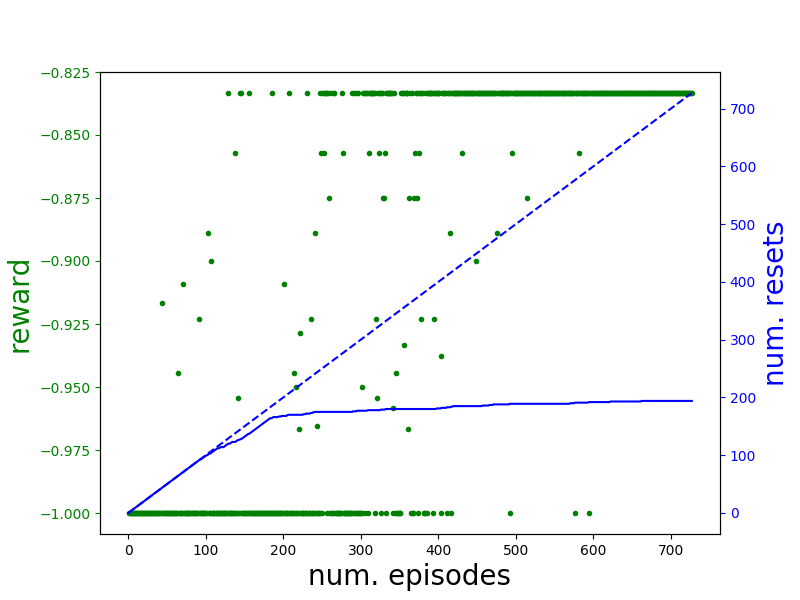
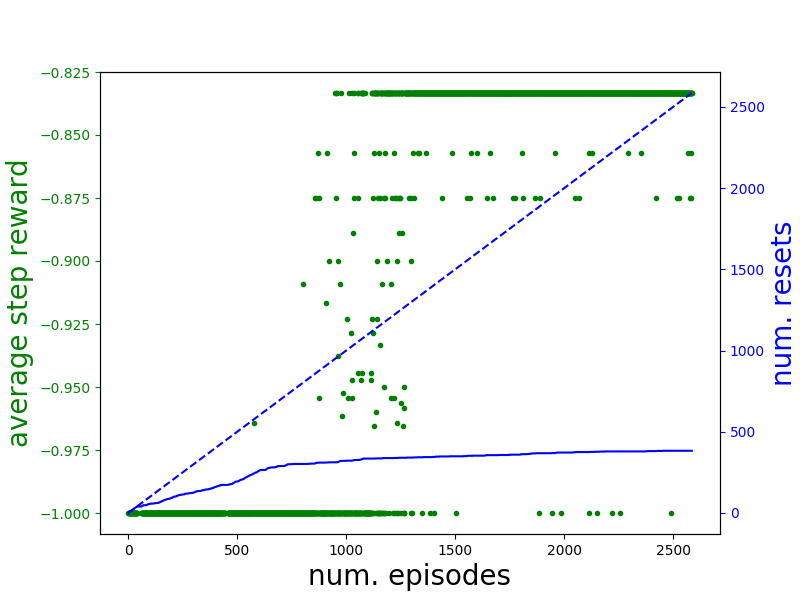
minor fixes

diff --git a/env_util.py b/env_util.py
@@ -28,7 +28,7 @@ def get_env(env_name, safety_param=0):
         if env_name == 'small-gridworld':
             map_name = '4x4'
             max_episode_steps = 30
-            num_training_iterations = 6000
+            num_training_iterations = 20000
         else:
             map_name = '8x8'
             max_episode_steps = 100

diff --git a/README.md b/README.md
@@ -71,7 +71,7 @@ Basic usage - activate the virtual environment and run the demo script.
 After training, you should see a plot that looks like the one below. The green dots show the average per-step reward throughout training. As expected, the agent's reward increases throughout training. The solid blue line shows the cumulative number of hard resets throughout training. Notice that fewer and fewer new hard resets are performed later in training, as the reset agent learns to automatically reset the agent.
 ![example plot](plot.png)
 
-This implementation of Leave No Trace currently only supports environments with discrete actions. Support for environments with continuous actions is coming in early May 2018!
+This implementation of Leave No Trace currently only supports environments with discrete action Additionally, this implementation does not support learning an ensemble of value functions. Support for environments with continuous actions and ensembles of value functions is coming in early May 2018!
 
 
 ### Miscellany
